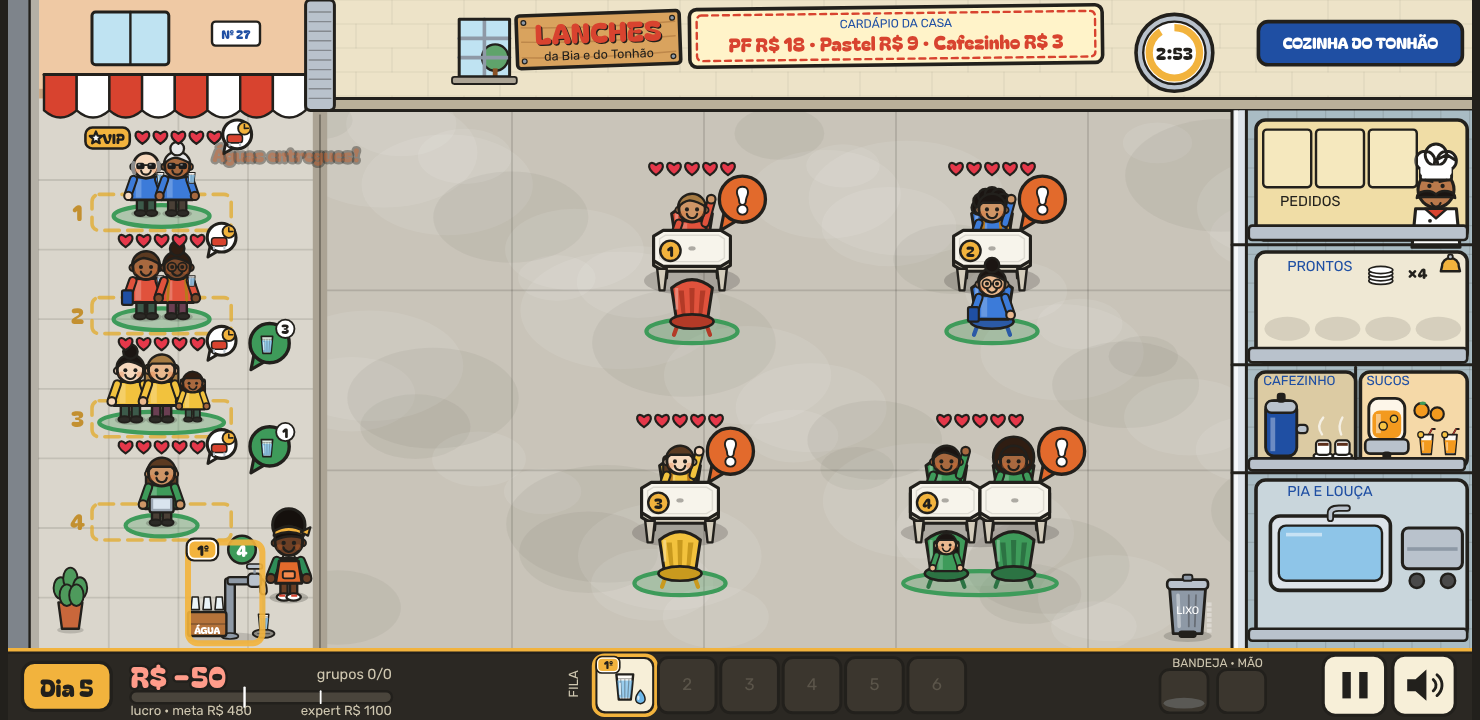
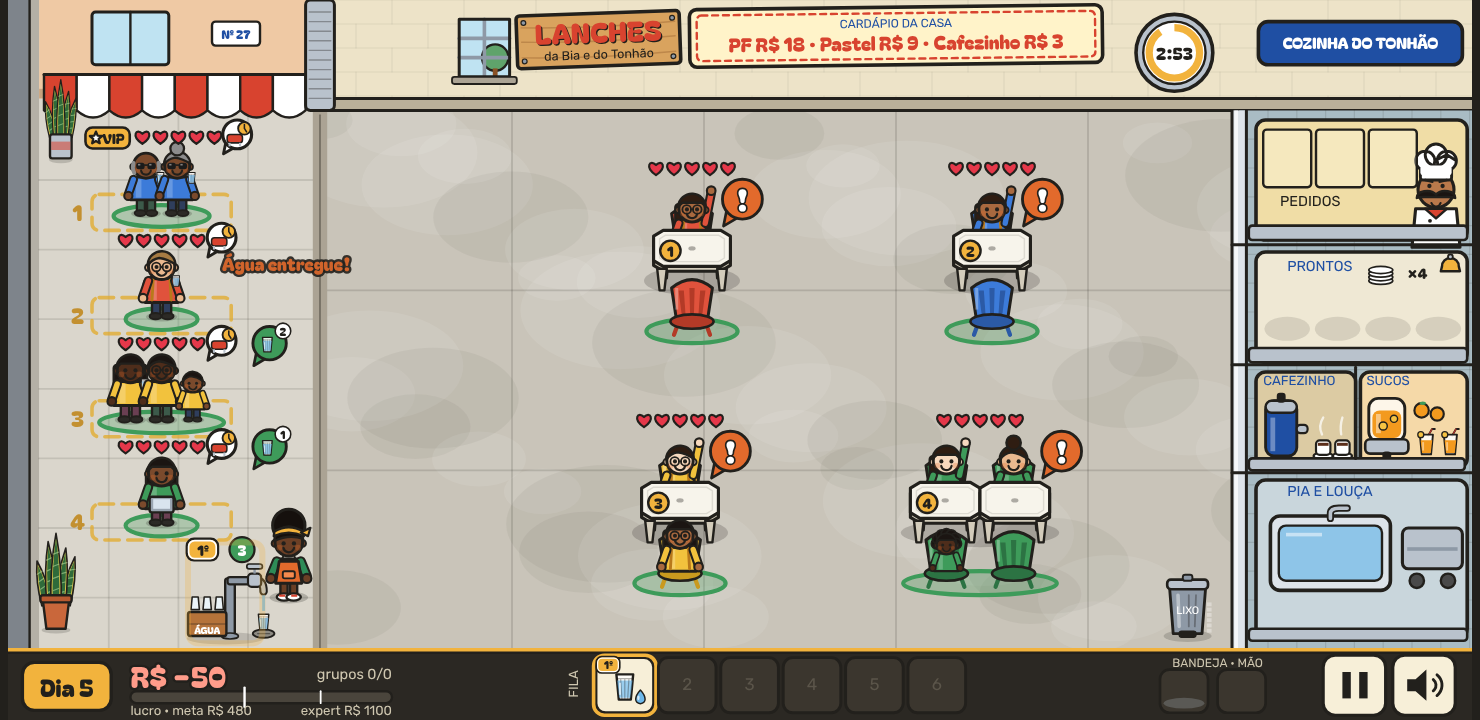
v7.7: espada-de-são-jorge na calçada; decoração por nível e o Joca nas ideias
Pedido do usuário: as plantas da casa da Bia no nível 1, simples. A espada-de-são-jorge
entra no vaso de barro (no lugar do vaso de folhinhas) e numa lata de tinta
reaproveitada, encostada no muro. Entra na v7.7, que ainda não foi publicada.
Decoração dos níveis 2 a 4 (violetas, tulipas, ikebana) e o Joca (2º ajudante do
nível 2 ou 3) guardados no PLANO e nas PROPOSTAS.

Claude-Session: https://claude.ai/code/session_018gQp7TEN1S6WtqDSLFg4TS

diff --git a/lanchonete.html b/lanchonete.html
@@ -413,7 +413,7 @@ table.rank tr.me td{background:#fbe7a8}
       <div class="panel">
         <h2>Versões</h2>
         <ul class="verlist">
-          <li><b>v7.7</b><span class="cur">versão atual</span><br>22/10/2026 &mdash; A espera lá fora com a cara da Garagem: quem espera fica de pé, numa faixa pintada no chão, e a Máquina de suco virou a Água da torneira (R$ 80; quem tinha a máquina recebe R$ 100 de volta): quem espera pede água, a Bia enche os copos americanos na torneira e leva, de graça. Bancos, sucos e o resto vêm com os próximos pontos.</li>
+          <li><b>v7.7</b><span class="cur">versão atual</span><br>22/10/2026 &mdash; A espera lá fora com a cara da Garagem: quem espera fica de pé, numa faixa pintada no chão, e a Máquina de suco virou a Água da torneira (R$ 80; quem tinha a máquina recebe R$ 100 de volta): quem espera pede água, a Bia enche os copos americanos na torneira e leva, de graça. Na calçada, as plantas da casa da Bia: espada-de-são-jorge no vaso de barro e numa lata. Bancos, sucos e o resto vêm com os próximos pontos.</li>
           <li><b>v7.6</b><br>22/10/2026 &mdash; Tudo na mesma tela: a tela ficou mais larga e mostra a calçada, o salão e a cozinha juntos, sem rolar (sem abinhas nem arrastar o fundo). No celular deitado, tudo fica do mesmo tamanho de antes.<br><a href="versoes/v7.6.html" target="_blank" rel="noopener">Abrir a v7.6</a></li>
           <li><b>v7.5.1</b><br>21/10/2026 &mdash; Modo dev, para testar: 10 toques no selo da versão ligam e desligam. O jogo fica igual, com "Modo dev" na tela, os 7 dias liberados, R$ 10.000 que não acabam e tudo liberado na lojinha (até antes do dia 1): melhorias de graça, liga e desliga; equipe completa, couvert e divulgação. Usa um save à parte e fica fora do ranking.<br><a href="versoes/v7.5.1.html" target="_blank" rel="noopener">Abrir a v7.5.1</a></li>
           <li><b>v7.5</b><br>21/10/2026 &mdash; A espera foi para a calçada: a tela rola (arraste o fundo, use as abinhas do alto ou arraste o grupo até a borda; 2 toques no grupo levam ao salão), 4 bancos lá fora com tablet, toldo e vaso, e a Máquina de suco no lugar da Água saborizada: quem espera pede no tablet, a Bia (ou a Dani) leva e o suco entra na conta.<br><a href="versoes/v7.5.html" target="_blank" rel="noopener">Abrir a v7.5</a></li>
@@ -3041,7 +3041,8 @@ function placaCozinha(ctx){
 }
 
 /* calçada (v7.5), de -CALCADA.w a 0: o muro da casa com o toldo, o piso de concreto, o meio-fio e a rua; os
-   lugares de espera e o vaso no chão. Na borda do salão, o portão de enrolar aberto (trilho e soleira).
+   lugares de espera e as plantas da casa (espada-de-são-jorge no vaso de barro e numa lata reaproveitada, v7.7).
+   Na borda do salão, o portão de enrolar aberto (trilho e soleira).
    Os lugares seguem o ponto (v7.7, PONTOS.assento): na Garagem, de pé, numa faixa pintada no chão com o número;
    com assento, o banco de ripas da v7.5, com o tablet num pedestal se a bebida pede preparo */
 function drawCalcada(ctx,g,tm){
@@ -3092,17 +3093,38 @@ function drawCalcada(ctx,g,tm){
     ctx.save(); ctx.translate(px,y-36); ctx.rotate(-0.18); rr(ctx,-10,-8,20,14,3); fs(ctx,PAL.tinta,1.6);
     ctx.fillStyle = g && g.up && g.up.maquina ? '#FFE0A6' : '#4a5a6a'; ctx.fillRect(-7,-5,14,8); ctx.restore();
   }
-  // vaso no chão, no canto de baixo (o banquinho de plástico da v7.5 fica para o nível 2)
-  const vx = x0 + 52, vy = 536;
-  shadowEll(ctx,vx,vy-11,11,3,0.18);
-  ctx.beginPath(); ctx.moveTo(vx-10,vy-34); ctx.lineTo(vx+10,vy-34); ctx.lineTo(vx+7,vy-12); ctx.lineTo(vx-7,vy-12); ctx.closePath(); fs(ctx,'#C9673B',2);
-  [[-8,-46],[0,-54],[8,-46],[-3,-40],[5,-40]].forEach(l => { ell(ctx,vx+l[0],vy+l[1],6,9); fs(ctx,'#4E9A5C',1.6); });
+  // plantas da casa da Bia (nível 1, v7.7): espada-de-são-jorge no vaso de barro, no canto de baixo, e uma menor
+  // numa lata de tinta reaproveitada, encostada no muro (o banquinho de plástico da v7.5 fica para o nível 2)
+  const vx = x0 + 40, vy = 536;
+  shadowEll(ctx,vx,vy-11,12,3,0.18);
+  drawEspada(ctx,vx,vy-32,0.85);
+  ctx.beginPath(); ctx.moveTo(vx-11,vy-36); ctx.lineTo(vx+11,vy-36); ctx.lineTo(vx+8,vy-12); ctx.lineTo(vx-8,vy-12); ctx.closePath(); fs(ctx,'#C9673B',2);
+  rr(ctx,vx-13,vy-40,26,6,2); fs(ctx,'#B85A30',2);
+  const lx = x0 + 44, ly = 132;
+  shadowEll(ctx,lx,ly+1,10,3,0.18);
+  drawEspada(ctx,lx,ly-18,0.68);
+  rr(ctx,lx-9,ly-20,18,20,2); fs(ctx,PAL.cromo,2);
+  ctx.fillStyle = 'rgba(216,67,47,.55)'; ctx.fillRect(lx-8,ly-14,16,7);   // o rótulo desbotado da lata
   // portão de enrolar aberto, na borda do salão: trilho no alto e soleira no chão
   ctx.fillStyle = '#ABA394'; ctx.fillRect(-6,92,12,448);
   ctx.strokeStyle = 'rgba(34,32,28,.4)'; ctx.lineWidth = 1.5; ctx.beginPath(); ctx.moveTo(0,96); ctx.lineTo(0,540); ctx.stroke();
   rr(ctx,-12,0,24,92,4); fs(ctx,PAL.cromo,2.5);
   ctx.strokeStyle = 'rgba(34,32,28,.35)'; ctx.lineWidth = 1.2;
   for (let y=10;y<86;y+=8){ ctx.beginPath(); ctx.moveTo(-9,y); ctx.lineTo(9,y); ctx.stroke(); }
+}
+/* espada-de-são-jorge (v7.7): folhas compridas e pontudas, verde-escuras com faixas claras e a borda amarela;
+   (x, y) é a terra do vaso */
+function drawEspada(ctx,x,y,s){
+  ctx.save(); ctx.translate(x,y); ctx.scale(s,s);
+  [[-9,-44,-0.22],[9,-48,0.2],[-4,-62,-0.06],[4,-56,0.1],[0,-70,0]].forEach(([bx,h,r]) => {
+    ctx.save(); ctx.translate(bx,0); ctx.rotate(r);
+    ctx.beginPath(); ctx.moveTo(-5,0); ctx.quadraticCurveTo(-6,h*0.55,0,h); ctx.quadraticCurveTo(6,h*0.55,5,0); ctx.closePath(); fs(ctx,'#D9C24A',1.6);
+    ctx.beginPath(); ctx.moveTo(-3.2,0); ctx.quadraticCurveTo(-4,h*0.55,0,h + 5); ctx.quadraticCurveTo(4,h*0.55,3.2,0); ctx.closePath(); ctx.fillStyle = '#2F6B3A'; ctx.fill();
+    ctx.strokeStyle = 'rgba(190,226,160,.55)'; ctx.lineWidth = 1.2;
+    for (let k=0.2;k<0.8;k+=0.17){ ctx.beginPath(); ctx.moveTo(-2.6,h*k); ctx.lineTo(2.6,h*k - 2); ctx.stroke(); }
+    ctx.restore();
+  });
+  ctx.restore();
 }
 /* estação da bebida da espera: na Garagem (v7.7), a torneira; senão, a máquina de suco da v7.5 */
 function drawMaquina(ctx,g,t,menu){

diff --git a/src/21-cenario.js b/src/21-cenario.js
@@ -123,7 +123,8 @@ function placaCozinha(ctx){
 }
 
 /* calçada (v7.5), de -CALCADA.w a 0: o muro da casa com o toldo, o piso de concreto, o meio-fio e a rua; os
-   lugares de espera e o vaso no chão. Na borda do salão, o portão de enrolar aberto (trilho e soleira).
+   lugares de espera e as plantas da casa (espada-de-são-jorge no vaso de barro e numa lata reaproveitada, v7.7).
+   Na borda do salão, o portão de enrolar aberto (trilho e soleira).
    Os lugares seguem o ponto (v7.7, PONTOS.assento): na Garagem, de pé, numa faixa pintada no chão com o número;
    com assento, o banco de ripas da v7.5, com o tablet num pedestal se a bebida pede preparo */
 function drawCalcada(ctx,g,tm){
@@ -174,17 +175,38 @@ function drawCalcada(ctx,g,tm){
     ctx.save(); ctx.translate(px,y-36); ctx.rotate(-0.18); rr(ctx,-10,-8,20,14,3); fs(ctx,PAL.tinta,1.6);
     ctx.fillStyle = g && g.up && g.up.maquina ? '#FFE0A6' : '#4a5a6a'; ctx.fillRect(-7,-5,14,8); ctx.restore();
   }
-  // vaso no chão, no canto de baixo (o banquinho de plástico da v7.5 fica para o nível 2)
-  const vx = x0 + 52, vy = 536;
-  shadowEll(ctx,vx,vy-11,11,3,0.18);
-  ctx.beginPath(); ctx.moveTo(vx-10,vy-34); ctx.lineTo(vx+10,vy-34); ctx.lineTo(vx+7,vy-12); ctx.lineTo(vx-7,vy-12); ctx.closePath(); fs(ctx,'#C9673B',2);
-  [[-8,-46],[0,-54],[8,-46],[-3,-40],[5,-40]].forEach(l => { ell(ctx,vx+l[0],vy+l[1],6,9); fs(ctx,'#4E9A5C',1.6); });
+  // plantas da casa da Bia (nível 1, v7.7): espada-de-são-jorge no vaso de barro, no canto de baixo, e uma menor
+  // numa lata de tinta reaproveitada, encostada no muro (o banquinho de plástico da v7.5 fica para o nível 2)
+  const vx = x0 + 40, vy = 536;
+  shadowEll(ctx,vx,vy-11,12,3,0.18);
+  drawEspada(ctx,vx,vy-32,0.85);
+  ctx.beginPath(); ctx.moveTo(vx-11,vy-36); ctx.lineTo(vx+11,vy-36); ctx.lineTo(vx+8,vy-12); ctx.lineTo(vx-8,vy-12); ctx.closePath(); fs(ctx,'#C9673B',2);
+  rr(ctx,vx-13,vy-40,26,6,2); fs(ctx,'#B85A30',2);
+  const lx = x0 + 44, ly = 132;
+  shadowEll(ctx,lx,ly+1,10,3,0.18);
+  drawEspada(ctx,lx,ly-18,0.68);
+  rr(ctx,lx-9,ly-20,18,20,2); fs(ctx,PAL.cromo,2);
+  ctx.fillStyle = 'rgba(216,67,47,.55)'; ctx.fillRect(lx-8,ly-14,16,7);   // o rótulo desbotado da lata
   // portão de enrolar aberto, na borda do salão: trilho no alto e soleira no chão
   ctx.fillStyle = '#ABA394'; ctx.fillRect(-6,92,12,448);
   ctx.strokeStyle = 'rgba(34,32,28,.4)'; ctx.lineWidth = 1.5; ctx.beginPath(); ctx.moveTo(0,96); ctx.lineTo(0,540); ctx.stroke();
   rr(ctx,-12,0,24,92,4); fs(ctx,PAL.cromo,2.5);
   ctx.strokeStyle = 'rgba(34,32,28,.35)'; ctx.lineWidth = 1.2;
   for (let y=10;y<86;y+=8){ ctx.beginPath(); ctx.moveTo(-9,y); ctx.lineTo(9,y); ctx.stroke(); }
+}
+/* espada-de-são-jorge (v7.7): folhas compridas e pontudas, verde-escuras com faixas claras e a borda amarela;
+   (x, y) é a terra do vaso */
+function drawEspada(ctx,x,y,s){
+  ctx.save(); ctx.translate(x,y); ctx.scale(s,s);
+  [[-9,-44,-0.22],[9,-48,0.2],[-4,-62,-0.06],[4,-56,0.1],[0,-70,0]].forEach(([bx,h,r]) => {
+    ctx.save(); ctx.translate(bx,0); ctx.rotate(r);
+    ctx.beginPath(); ctx.moveTo(-5,0); ctx.quadraticCurveTo(-6,h*0.55,0,h); ctx.quadraticCurveTo(6,h*0.55,5,0); ctx.closePath(); fs(ctx,'#D9C24A',1.6);
+    ctx.beginPath(); ctx.moveTo(-3.2,0); ctx.quadraticCurveTo(-4,h*0.55,0,h + 5); ctx.quadraticCurveTo(4,h*0.55,3.2,0); ctx.closePath(); ctx.fillStyle = '#2F6B3A'; ctx.fill();
+    ctx.strokeStyle = 'rgba(190,226,160,.55)'; ctx.lineWidth = 1.2;
+    for (let k=0.2;k<0.8;k+=0.17){ ctx.beginPath(); ctx.moveTo(-2.6,h*k); ctx.lineTo(2.6,h*k - 2); ctx.stroke(); }
+    ctx.restore();
+  });
+  ctx.restore();
 }
 /* estação da bebida da espera: na Garagem (v7.7), a torneira; senão, a máquina de suco da v7.5 */
 function drawMaquina(ctx,g,t,menu){

diff --git a/src/02-telas.html b/src/02-telas.html
@@ -182,7 +182,7 @@
       <div class="panel">
         <h2>Versões</h2>
         <ul class="verlist">
-          <li><b>v7.7</b><span class="cur">versão atual</span><br>22/10/2026 &mdash; A espera lá fora com a cara da Garagem: quem espera fica de pé, numa faixa pintada no chão, e a Máquina de suco virou a Água da torneira (R$ 80; quem tinha a máquina recebe R$ 100 de volta): quem espera pede água, a Bia enche os copos americanos na torneira e leva, de graça. Bancos, sucos e o resto vêm com os próximos pontos.</li>
+          <li><b>v7.7</b><span class="cur">versão atual</span><br>22/10/2026 &mdash; A espera lá fora com a cara da Garagem: quem espera fica de pé, numa faixa pintada no chão, e a Máquina de suco virou a Água da torneira (R$ 80; quem tinha a máquina recebe R$ 100 de volta): quem espera pede água, a Bia enche os copos americanos na torneira e leva, de graça. Na calçada, as plantas da casa da Bia: espada-de-são-jorge no vaso de barro e numa lata. Bancos, sucos e o resto vêm com os próximos pontos.</li>
           <li><b>v7.6</b><br>22/10/2026 &mdash; Tudo na mesma tela: a tela ficou mais larga e mostra a calçada, o salão e a cozinha juntos, sem rolar (sem abinhas nem arrastar o fundo). No celular deitado, tudo fica do mesmo tamanho de antes.<br><a href="versoes/v7.6.html" target="_blank" rel="noopener">Abrir a v7.6</a></li>
           <li><b>v7.5.1</b><br>21/10/2026 &mdash; Modo dev, para testar: 10 toques no selo da versão ligam e desligam. O jogo fica igual, com "Modo dev" na tela, os 7 dias liberados, R$ 10.000 que não acabam e tudo liberado na lojinha (até antes do dia 1): melhorias de graça, liga e desliga; equipe completa, couvert e divulgação. Usa um save à parte e fica fora do ranking.<br><a href="versoes/v7.5.1.html" target="_blank" rel="noopener">Abrir a v7.5.1</a></li>
           <li><b>v7.5</b><br>21/10/2026 &mdash; A espera foi para a calçada: a tela rola (arraste o fundo, use as abinhas do alto ou arraste o grupo até a borda; 2 toques no grupo levam ao salão), 4 bancos lá fora com tablet, toldo e vaso, e a Máquina de suco no lugar da Água saborizada: quem espera pede no tablet, a Bia (ou a Dani) leva e o suco entra na conta.<br><a href="versoes/v7.5.html" target="_blank" rel="noopener">Abrir a v7.5</a></li>

diff --git a/docs/PLANO.md b/docs/PLANO.md
@@ -21,7 +21,7 @@ Origem: retorno do Renan Martorelli (beta-tester) e conversa com o Arthur (15/10
 | — | Fora do plano: TV e som na Garagem, couvert só no nível 3 | v7.4.4 | feita (21/10) |
 | 1d-2 | Tela que rola até a calçada, espera lá fora e máquina de suco | v7.5 | feita (21/10) |
 | — | Retorno de jogador: tela larga, tudo à vista sem rolar | v7.6 | feita (22/10) |
-| — | Fora do plano: espera da Garagem de pé e Água da torneira | v7.7 | feita (22/10) |
+| — | Fora do plano: espera da Garagem de pé, Água da torneira e espada-de-são-jorge | v7.7 | feita (22/10) |
 | 2 | Manutenção e imprevistos | v8 | **próxima** |
 | 3 | Pontos: área industrial e Avenida Brasil, carreira por pontos | v9 | a fazer |
 | 4 | Terraço Suíça e VIPs exigentes | v10 | a fazer |
@@ -262,7 +262,7 @@ Também: rever o `smoke7` (toque) e o `smoke10` (fila justa e porta), mais `bala
   - área útil, cadeiras de espera e visual próprios.
 - **Mudança** na lojinha (aba "Ponto"): custo único, aluguel dali em diante e os móveis levados junto. O editor abre no ponto novo com a arrumação automática.
 - **O que cada ponto destrava** (sugestão):
-  - área industrial: 2º garçom, +1 boca no fogão (4 pratos ao mesmo tempo), balcão de pratos com 5 vagas, os **3 televisores com playlist de sertanejo** (ver "Ambiente por nível do salão" nas Ideias guardadas) e a **espera com cadeirinhas de plástico ou banquinhos de madeira e jarra de suco** (ver "Espera lá fora por nível");
+  - área industrial: 2º garçom (o **Joca**, pedido do usuário em 22/10; ou na Avenida Brasil), +1 boca no fogão (4 pratos ao mesmo tempo), balcão de pratos com 5 vagas, os **3 televisores com playlist de sertanejo** (ver "Ambiente por nível do salão" nas Ideias guardadas) e a **espera com cadeirinhas de plástico ou banquinhos de madeira e jarra de suco** (ver "Espera lá fora por nível");
   - Avenida Brasil: confeiteiro (sobremesas), balcão de coquetelaria com profissional de drinks, um prato novo no cardápio, balcão de pratos com 6 vagas, a **espera com sofás e águas saborizadas** e o **couvert artístico** (já pronto no código desde a v5, escondido abaixo do nível 3 desde a v7.4.4: basta o ponto ter `nivel:3`). Decidir se a TV e o som vão junto na mudança.
   Se ficar grande demais, a etapa se divide (3a: mudança e área industrial; 3b: Avenida Brasil, confeitaria e coquetelaria).
 - **Carreira por pontos, sem fim fixo:** cada ponto tem uma série de metas (ex.: 3 a 5 dias). Batidas as metas e juntado o dinheiro, pode mudar. O ranking da carreira soma o lucro (ou o melhor dia) de cada ponto. Os 7 dias de hoje viram a série da Garagem.
@@ -377,6 +377,7 @@ Também: rever o `smoke7` (toque) e o `smoke10` (fila justa e porta), mais `bala
 | 4 | Terraço Suíça (etapa 4) | **poltronas individuais** | **coquetelaria lá fora** | a fazer |
 
   - Decisões em aberto: preço e efeito de cada bebida (a de cima rende mais na conta ou segura mais a paciência?); se o assento também segura a paciência (sentado espera com mais calma que de pé) ou só soma ao **nível de luxo**; se a coquetelaria lá fora usa o profissional de drinks do balcão de coquetelaria (níveis 3 e 4); o que acontece com a torneira na mudança (sugestão: como o ambiente, a bebida do nível de baixo sai e entra a do ponto novo).
+  - **Decoração da calçada por nível** (pedido do usuário em 22/10, mesma conversa): plantas e enfeites sobem junto com o ponto. Nível 1, Garagem: **espada-de-são-jorge**, plantinhas simples (vaso de barro e lata reaproveitada; **feito na v7.7**). Nível 2: uma planta um pouco maior e mais bonita, por exemplo **violetas** em vasinhos (ou um antúrio, uma samambaia pendurada). Nível 3: flores mais rebuscadas, como **tulipas**, **orquídeas** ou **copos-de-leite**. Nível 4: **flores muito belas e arranjos**, como **ikebana**, arranjos de orquídeas e flores do campo em vasos de cerâmica. Só visual por enquanto; mais tarde soma ao **nível de luxo**.
   - Desenho de cada um com o seu (banquinhos e jarra na mesinha; sofás com almofadas e garrafas coloridas; poltronas, tapete e balcãozinho de drinks), respeitando `prefers-reduced-motion`.
 - **Ambiente por nível do salão** (pedido do usuário em 21/10; texto e decisões em aberto em `docs/PROPOSTAS.md`). Em todos, a paciência nas mesas cai mais devagar, como na v7.4.4 (`ambienteEffect`):
   - **nível 1, Garagem:** TV de tubo na Rede Esfera (5%, luz R$ 15/dia) e som na rádio Velha Brasil FM (5%, luz R$ 10/dia). **Feito na v7.4.4.**
@@ -387,7 +388,7 @@ Também: rever o `smoke7` (toque) e o `smoke10` (fila justa e porta), mais `bala
   - Desenho: cada nível com o seu (paredão de 3 TVs, palco do músico, quarteto, piano de cauda), respeitando `prefers-reduced-motion`; nomes de emissoras, rádios e músicas sempre inventados.
 - Cardápio com preço escolhido pelo jogador (o Arthur achou estranho só mexer em preço; talvez nunca).
 - Equipamento melhor no lugar da manutenção (fogão industrial etc.).
-- Mais funcionários: um segundo garçom, além da Dani.
+- Mais funcionários: um segundo garçom, além da Dani. **Pedido do usuário em 22/10:** a partir do nível 2 ou 3, dá para contratar um **segundo ajudante, o Joca** (o 2º garçom da etapa 3; texto em `docs/PROPOSTAS.md`). Decidir: se o Joca faz as mesmas tarefas da Dani ou outras (por exemplo, cuidar só da calçada: levar o grupo à mesa e servir a espera), salário, níveis e visual (sem estereótipo, com crachá como a Dani).
 - Eventos de bairro: festa junina, jogo do Brasil.
 - **Avaliações dos clientes como meta para avançar** (pedido do usuário em 21/10; texto em `docs/PROPOSTAS.md`): uma nota parecida com as avaliações de mapa na internet, que sobe ou desce pela média das **últimas 200 avaliações** de quem passou. Cada grupo avalia 5 critérios:
   - **espera por mesa:** cada coração perdido na fila tira 1 ponto;

diff --git a/docs/PROPOSTAS.md b/docs/PROPOSTAS.md
@@ -4,6 +4,25 @@ Registro das ideias e dos retornos de quem jogou, com o texto original, e de ond
 
 ---
 
+## 22/10/2026 — Usuário: decoração por nível e o Joca
+**Origem:** mensagem do usuário, logo depois da v7.7 (antes de publicar):
+
+> "E decoração, plantas, essas coisas, né? Decoraçãozinha da casa da Bia, lá da garagem da Bia, né? Nível 1. Pode ser só a espada de São Jorge, né? As plantinhas assim, mais simplinhas, né? No nível 2 pode ter de planta na decoração, talvez uma... violeta. Não sei, alguma planta que seja um pouquinho maior, um pouquinho mais bonita, né? E nível 3, coisas mais rebuscadas, né? Aí pode ser, sei lá, uma tulipa ou uma flor mais rebuscada que você saiba, que eu não conheço tantas. E nível 4, flores muito belas e arranjos bonitos, tipo ikebana, essas coisas assim. E mais uma vez, o que não for para usar nesse nível 1 agora, anota nas ideias para o nível 2. E 3 e 4.
+> Ideias para implementar a partir do nível 2 ou 3. É possibilidade de contratar um segundo ajudante. Joca."
+
+**Destino:**
+
+| Nível | Decoração | Destino |
+|---|---|---|
+| 1, Garagem | espada-de-são-jorge, plantinhas simples | **v7.7, feito** (entrou na mesma versão, que ainda não tinha sido publicada): no vaso de barro e numa lata de tinta reaproveitada |
+| 2, área industrial | planta um pouco maior e mais bonita: violetas (sugestões: antúrio, samambaia pendurada) | etapa 3 do `docs/PLANO.md` ("Decoração da calçada por nível", nas Ideias guardadas) |
+| 3, Avenida Brasil | flores mais rebuscadas: tulipas (sugestões: orquídeas, copos-de-leite) | etapa 3 (idem) |
+| 4, Terraço Suíça | flores muito belas e arranjos: ikebana (sugestão: arranjos de orquídeas) | etapa 4 (idem) |
+
+- **Joca, o 2º ajudante** (do nível 2 ou 3 em diante): guardado no `docs/PLANO.md` (etapa 3, "2º garçom", e nas Ideias guardadas, "Mais funcionários"), com as decisões em aberto (tarefas, salário, níveis, visual).
+
+---
+
 ## 22/10/2026 — Usuário: a espera lá fora com a cara de cada nível
 **Origem:** mensagem do usuário, depois da v7.6:
 

diff --git a/docs/spec-v7.7.md b/docs/spec-v7.7.md
@@ -11,6 +11,7 @@ Pedido do usuário em 22/10 (texto em `docs/PROPOSTAS.md`): a espera lá fora te
 | 4, Terraço Suíça | poltronas individuais | coquetelaria | guardado (etapa 4) |
 
 - **De pé (`assento:'pe'`):** sem bancos nem tablets. Cada lugar é uma faixa amarela tracejada pintada no concreto, com o número no chão; o grupo fica em pé nela (e, depois da água, com o copo na mão). O vaso saiu do banquinho de plástico (que fica para o nível 2) e foi para o chão. O toldo e o muro da casa ficam.
+- **Decoração (2º pedido do usuário no mesmo dia):** as plantas da casa da Bia, simples: uma **espada-de-são-jorge** no vaso de barro (no canto de baixo, no lugar do vaso de folhinhas) e outra menor numa **lata de tinta reaproveitada**, encostada no muro (`drawEspada`). Decoração dos níveis 2 a 4 guardada no `docs/PLANO.md` ("Decoração da calçada por nível").
 - O código guarda o banco de ripas e o tablet da v7.5 para os pontos com assento (o tablet só aparece se a bebida tem preparo).
 
 ## Água da torneira (melhoria `maquina`, no lugar da Máquina de suco)
@@ -43,4 +44,4 @@ Pedido do usuário em 22/10 (texto em `docs/PROPOSTAS.md`): a espera lá fora te
 ## Testes
 - `smoke14` (63): Garagem de pé com água; preço, devolução (uma vez, também da Água saborizada antiga), pedido pronto na hora, 1 s para encher (Bia e Dani), entrega de graça com coração e paciência, lixeira sem custo, render (de pé, torneira enchendo, copo na mão) e o fim do dia; a máquina de suco da v7.5 com o suco posto no ponto.
 - `smoke15`: o save de teste é da v7.7 (`torneira:true`), para o save de verdade não ser regravado.
-- Capturas `shot_v7_7.py` (`capturas/v7.7`, 960×600 e 740×360): a calçada com 4 grupos de pé, a Bia enchendo na torneira, e a lojinha.
+- Capturas `shot_v7_7.py` (`capturas/v7.7`, 960×600 e 740×360): a calçada com 4 grupos de pé, as espadas-de-são-jorge, a Bia enchendo na torneira, e a lojinha.

diff --git a/docs/RESUMO.md b/docs/RESUMO.md
@@ -35,7 +35,7 @@
 | v7.5 | 21/10 | Calçada (etapa 1d-2): o mundo fica 260 px mais largo e a tela rola (arrastar o fundo no vazio, abinhas fixas no alto com o relógio e o aviso piscando, grupo na borda, 2 toques no grupo); espera lá fora com 4 bancos, tablet, toldo e vaso; Máquina de suco no lugar da Água (pedido no tablet, a Bia pega todos os copos que couberem e entrega grupo a grupo, R$ 12 na conta; a Dani pode levar) | `docs/spec-v7.5.md` |
 | v7.5.1 | 21/10 | Modo dev (pedido do usuário): 10 toques no selo da versão ligam e desligam; sem painel à parte, o jogo fica igual com "Modo dev" na tela; save à parte (`lcc2_save_dev`), 7 dias, R$ 10.000 que a lojinha repõe, lojinha desde o dia 1 com melhorias de graça (liga e desliga), couvert e divulgação liberados; ranking de fora | `docs/spec-v7.5.1.md` |
 | v7.6 | 22/10 | Tela larga (retorno de jogador: rolar fazia perder o controle): 1220×600, calçada, salão e cozinha juntos, sem rolar; HUD espalhado; no celular deitado, tudo do mesmo tamanho de antes | `docs/spec-v7.6.md` |
-| v7.7 | 22/10 | Espera com a cara do nível (pedido do usuário): na Garagem, de pé numa faixa pintada no chão, e a Água da torneira (R$ 80, de graça na conta, pedida no balão e enchida na hora) no lugar da Máquina de suco (R$ 100 de volta para quem tinha); `PONTOS.assento` e `BEBIDA_ESPERA` preparados para os níveis 2 a 4 | `docs/spec-v7.7.md` |
+| v7.7 | 22/10 | Espera com a cara do nível (pedido do usuário): na Garagem, de pé numa faixa pintada no chão, e a Água da torneira (R$ 80, de graça na conta, pedida no balão e enchida na hora) no lugar da Máquina de suco (R$ 100 de volta para quem tinha); espada-de-são-jorge no vaso e na lata; `PONTOS.assento` e `BEBIDA_ESPERA` preparados para os níveis 2 a 4 | `docs/spec-v7.7.md` |
 
 ## Alterações feitas no Claude Code (14/10/2026)
 1. **Importação** do pacote exportado do claude.ai para o repositório (commit `982583b`).
